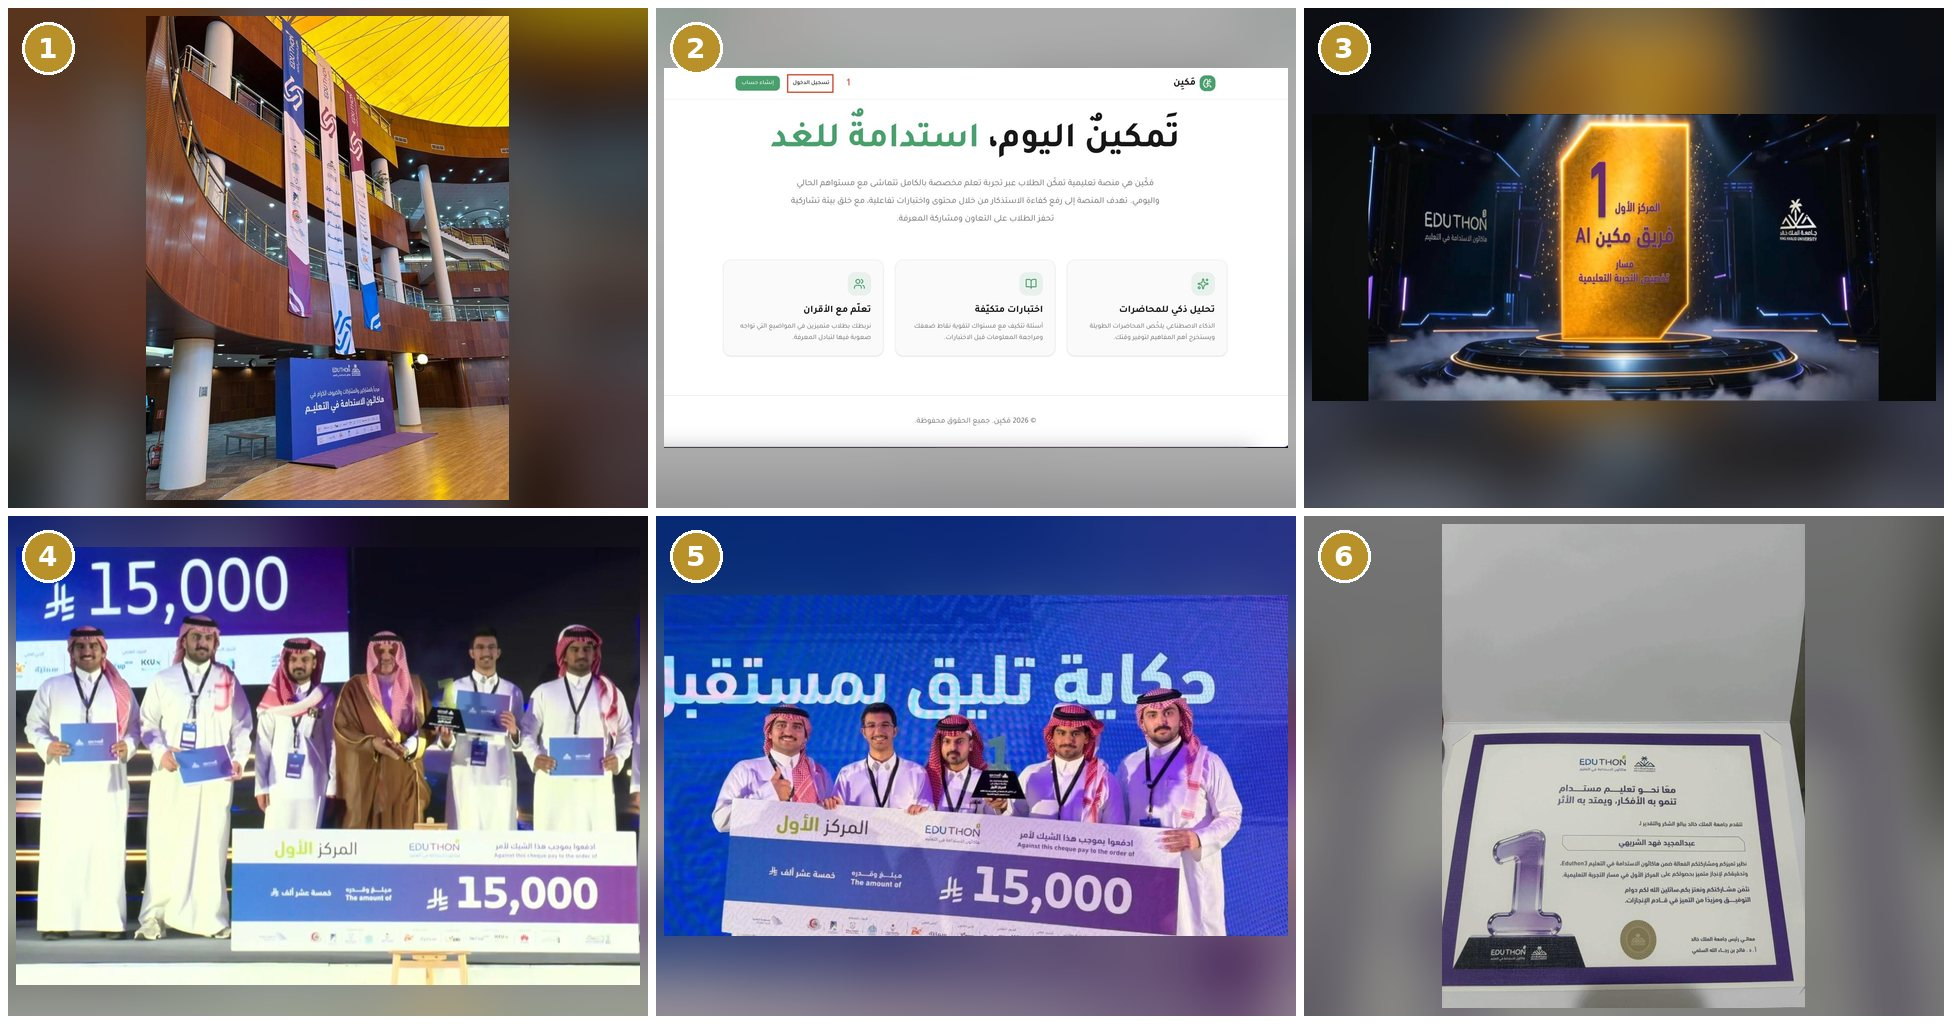
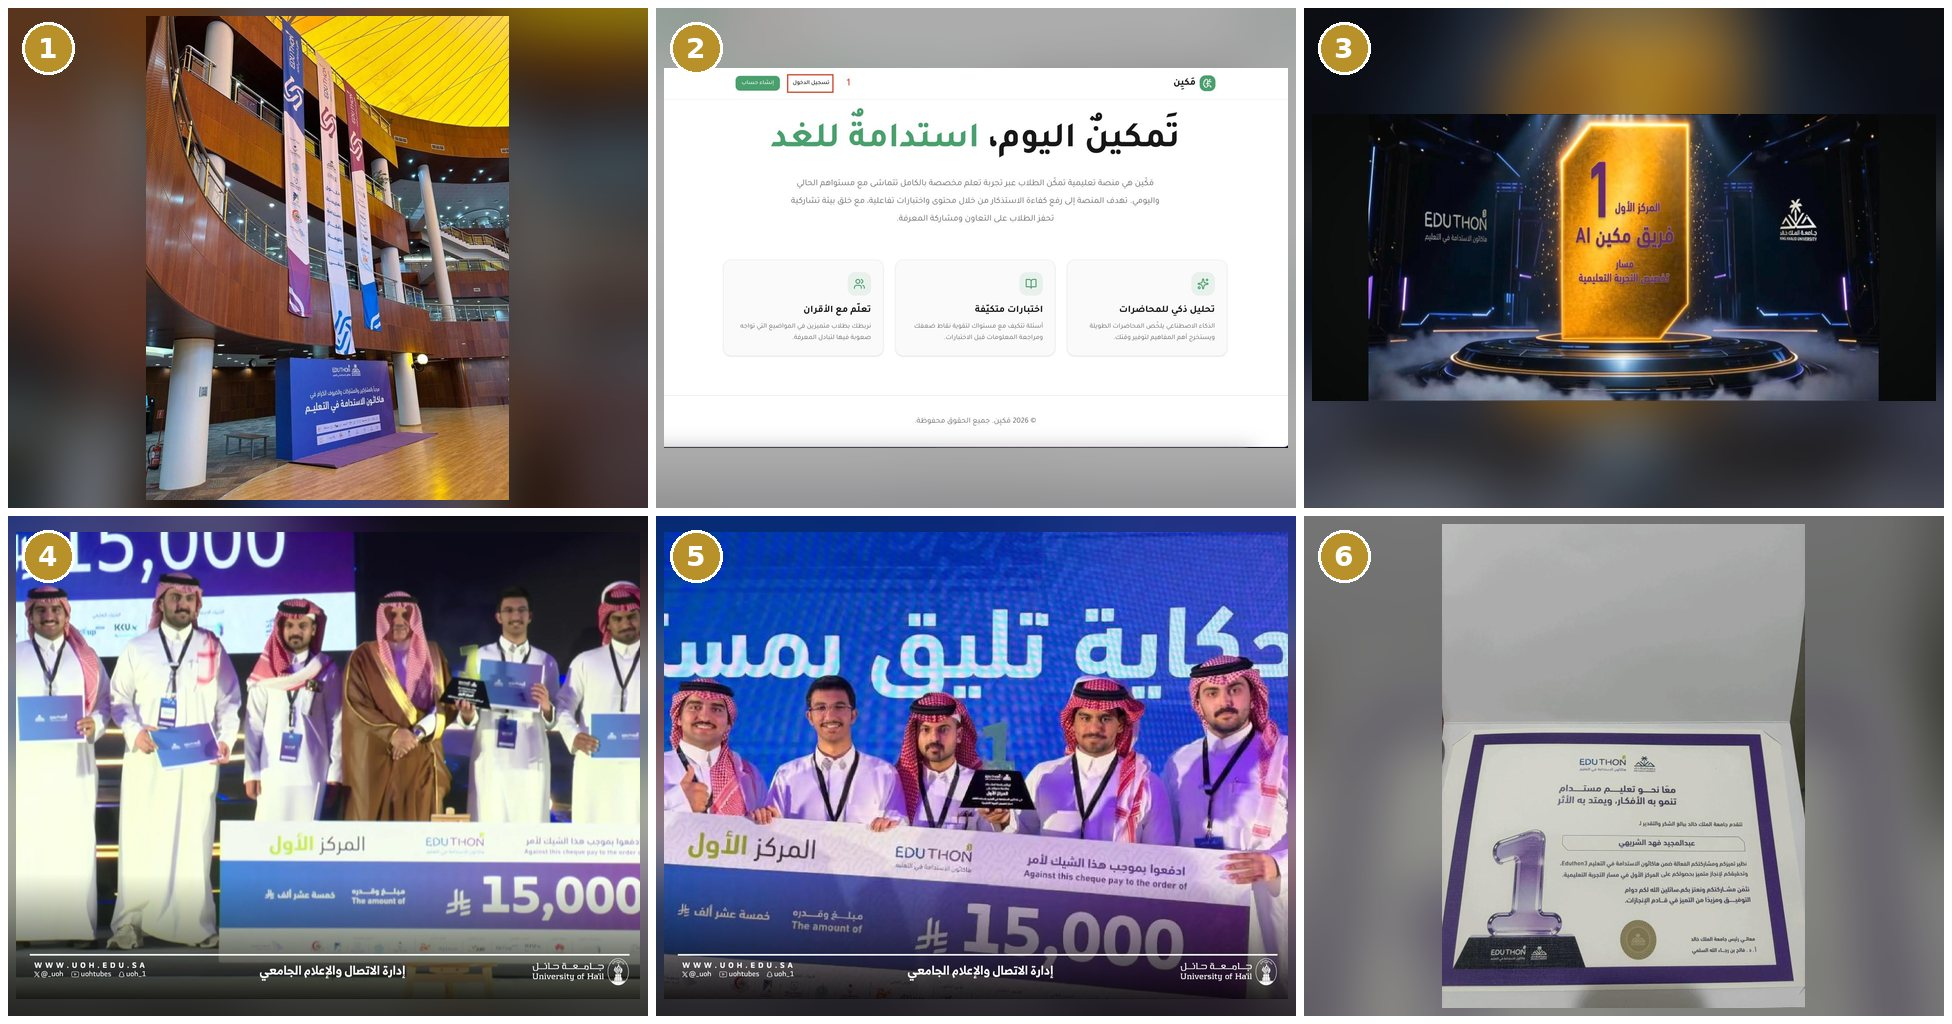
Add X content: second IoT course, Emir visit, better photos and combined galleries

Changed region(s): [[0.0, 0.5, 0.6875, 1.0]]

diff --git a/index.html b/index.html
@@ -588,8 +588,8 @@
   <section id="talks" hidden>
     <div class="wrap">
       <p class="eyebrow reveal"><span class="en">Courses &amp; visits</span><span class="ar">دورات وزيارات</span></p>
-      <h2 class="reveal"><span class="en">Sessions I've presented</span><span class="ar">دورات وزيارات قدّمتها</span></h2>
-      <p class="lead reveal"><span class="en">Courses I delivered and visits I hosted as the presenter. Hover or tap a card for the details.</span><span class="ar">دورات قدّمتها وزيارات كنت المقدّم فيها. مرّر أو اضغط على البطاقة لعرض التفاصيل.</span></p>
+      <h2 class="reveal"><span class="en">Sessions &amp; official visits</span><span class="ar">دورات وزيارات رسمية</span></h2>
+      <p class="lead reveal"><span class="en">Courses I delivered and official visits I presented at or took part in. Hover or tap a card for the details, and click it to see the photos.</span><span class="ar">دورات قدّمتها، وزيارات رسمية قدّمت فيها أو شاركت بها. مرّر أو المس البطاقة لعرض التفاصيل، واضغط عليها لعرض الصور.</span></p>
     </div>
     <div class="marquee reveal" id="talksMarquee"><div class="marquee-track" id="talksTrack"></div></div>
   </section>
@@ -683,18 +683,27 @@
   // الدورات والزيارات: أضف عنصرًا لكل دورة أو زيارة. القسم يبقى مخفيًا ما دامت القائمة فارغة.
   // type: 'course' دورة | 'visit' زيارة
   var TALKS = [
-    { type:'course', img:'assets/talks/course-01.jpg',
-      title:{en:'Introduction to the Internet of Things (IoT)', ar:'مقدمة إلى إنترنت الأشياء (IoT)'},
+    // الأحدث أولًا. img صورة البطاقة، full الصورة المجمّعة اللي تنفتح عند الضغط
+    { type:'visit', img:'assets/talks/visit-03.jpg',
+      title:{en:"Hail Region Emir receives University of Hail staff and students", ar:'استقبال أمير منطقة حائل لمنسوبي وطلبة جامعة حائل'},
+      when:{en:'University of Hail · Sep 2025', ar:'جامعة حائل · سبتمبر 2025'},
+      desc:{en:'I was selected to take part in the meeting, which showcased the work of the College of Computer Science and Engineering and launched an AR initiative.', ar:'اختِرت للمشاركة في اللقاء الذي استُعرضت فيه جهود كلية علوم وهندسة الحاسب وأُطلقت فيه مبادرة بتقنيات الواقع المعزز.'} },
+    { type:'course', img:'assets/talks/course-02.jpg', full:'assets/talks/course-02-full.jpg',
+      title:{en:'Introduction to the Internet of Things (IoT)', ar:'مقدمة في إنترنت الأشياء (IoT)'},
+      when:{en:'College Fab Lab · Oct 2024', ar:'فاب لاب الكلية · أكتوبر 2024'},
+      desc:{en:'A course I delivered on what IoT is, its benefits, examples, its link to AI and its challenges.', ar:'دورة قدّمتها عن مفهوم إنترنت الأشياء وفوائده وأمثلته وعلاقته بالذكاء الاصطناعي وتحدياته.'} },
+    { type:'course', img:'assets/talks/course-01.jpg', full:'assets/talks/course-01-full.jpg',
+      title:{en:'Introduction to the Internet of Things (IoT): public evening', ar:'مقدمة إلى إنترنت الأشياء (IoT): أمسية عامة'},
       when:{en:'Saudi Amateur Radio Society, Manarat Hail · Oct 2024', ar:'الجمعية السعودية لهواة اللاسلكي، منارة حائل الفضائية · أكتوبر 2024'},
       desc:{en:'A public course I delivered on IoT concepts, applications and its link to AI, with a hands-on part.', ar:'دورة مفتوحة للعامة قدّمتها عن مفاهيم إنترنت الأشياء وتطبيقاته وعلاقته بالذكاء الاصطناعي، مع جزء عملي.'} },
     { type:'visit', img:'assets/talks/visit-01.jpg',
       title:{en:'Presenting "Journey of Social Interaction" to the Minister of MCIT', ar:'عرض مشروع Journey of Social Interaction لمعالي وزير الاتصالات'},
       when:{en:'Ministry of Communications and IT · Sep 2024', ar:'وزارة الاتصالات وتقنية المعلومات · سبتمبر 2024'},
       desc:{en:"I presented our team's video-game project to Eng. Abdullah Alswaha, who offered to support it.", ar:'قدّمت مشروع لعبتنا الإلكترونية أمام م. عبدالله السواحه ضمن فريق من أربعة، وأبدى استعداده لدعمه.'} },
-    { type:'visit', img:'assets/talks/visit-02.jpg',
+    { type:'visit', img:'assets/talks/visit-02.jpg', full:'assets/talks/visit-02-full.jpg',
       title:{en:'Presenting the Informer system to the Minister', ar:'عرض نظام Informer أمام معالي الوزير'},
       when:{en:'MCIT · University of Hail · Aug 2024', ar:'وزارة الاتصالات وتقنية المعلومات · جامعة حائل · أغسطس 2024'},
-      desc:{en:'Our three-person team presented a Python face-recognition and location system; I was one of the presenters.', ar:'عرضنا كفريق من ثلاثة نظام بايثون للتعرّف على الوجوه وتحديد مواقعها، وكنت أحد المقدّمين.'} },
+      desc:{en:'During the Minister\'s tour of the university labs, our three-person team presented a Python face-recognition and location system; I was one of the presenters.', ar:'خلال جولة معالي الوزير في معامل الجامعة، عرضنا كفريق من ثلاثة نظام بايثون للتعرّف على الوجوه وتحديد مواقعها، وكنت أحد المقدّمين.'} },
   ];
 
   // مبدّل الوضع الفاتح/الداكن ويحفظ الاختيار
@@ -781,7 +790,7 @@
           track.querySelectorAll('.talk.open').forEach(function(o){ o.classList.remove('open'); });
           c.classList.add('open'); mq.classList.add('paused'); return;
         }
-        if (im && !im.dataset.fb) openLb(im.currentSrc || im.src, document.body.classList.contains('lang-ar') ? (t.title && t.title.ar) : (t.title && t.title.en));
+        if (im && !im.dataset.fb) openLb(t.full || im.currentSrc || im.src, document.body.classList.contains('lang-ar') ? (t.title && t.title.ar) : (t.title && t.title.en));
       }
       c.addEventListener('click', function(e){ e.stopPropagation(); act(); });
       c.addEventListener('keydown', function(e){ if (e.key === 'Enter' || e.key === ' ') { e.preventDefault(); act(); } });
